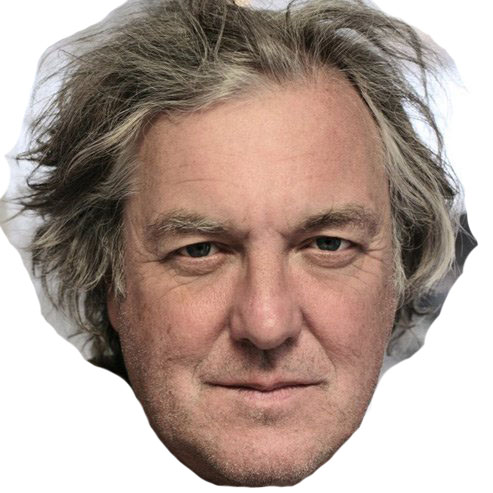
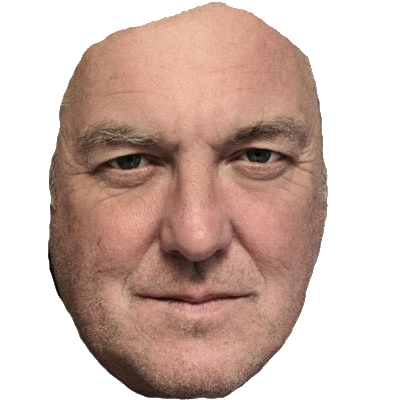
swapping faces works, I just need to sort some kinks...

diff --git a/James_May_Facer.py b/James_May_Facer.py
@@ -6,7 +6,7 @@ FaceCascade = cv2.CascadeClassifier('haarcascade_frontalface_default.xml')
 EyeCascade = cv2.CascadeClassifier('haarcascade_eye.xml')
 
 #load images
-InputImage = cv2.imread('taher.jpeg', cv2.IMREAD_COLOR)
+InputImage = cv2.imread('taher.jpg', cv2.IMREAD_COLOR)
 MayImage = cv2.imread('may.jpg', cv2.IMREAD_COLOR)
 
 InputGrey = cv2.cvtColor(InputImage, cv2.COLOR_BGR2GRAY)
@@ -16,18 +16,32 @@ MayGrey = cv2.cvtColor(MayImage, cv2.COLOR_BGR2GRAY)
 InputFaces = FaceCascade.detectMultiScale(InputGrey, 1.1, 5)
 MayFace = FaceCascade.detectMultiScale(MayGrey, 1.1, 5)
 for (x,y,w,h) in InputFaces:
-	#draw rectangles over InputFaces detected
-	cv2.rectangle(InputImage, (x,y), (x+w, y+h), (255, 0, 0), 2)
-	#cv2.rectangle(MayImage, (mx,my), (mx+mw, my+mh), (255, 0, 0), 2)
-	InputRoiGrey = InputGrey[y:y+h, x:x+w]
-	InputRoiColour = InputImage[y:y+h, x:x+w]
-	
-	#find eyes
-	eyes = EyeCascade.detectMultiScale(InputRoiGrey)
-	for (ex, ey, ew, eh) in eyes:
-		#draw rectangles over eyes
-		cv2.rectangle(InputRoiColour, (ex, ey), (ex+ew, ey+eh), (0, 255, 0), 2)
+	for (mx, my, mw, mh) in MayFace:
+		#draw rectangles over faces detected
+		#cv2.rectangle(InputImage, (x,y), (x+w, y+h), (255, 0, 0), 2)
+		#cv2.rectangle(MayImage, (mx,my), (mx+mw, my+mh), (255, 0, 0), 2)
 
+		#describe "regions of images" for the faces
+		InputRoiGrey = InputGrey[y:y+h, x:x+w]
+		InputRoiColour = InputImage[y:y+h, x:x+w]
+		MayRoiGrey = MayGrey[my:my+mh, mx:mx+mw]
+		MayRoiColour = MayImage[my:my+mh, mx:mx+mw]
+
+		#InputRoiColour[y:y+h, x:x+w] = MayRoiColour[y:y+h, x:x+w]
+		#resize and blend image
+		face = cv2.resize(MayImage, (h, w), interpolation = cv2.INTER_CUBIC)
+		face = cv2.addWeighted(InputImage[y:y+h, x:x+w], 0.1, face, 0.5, 1)
+		#swap faces
+		InputImage[y:y+h, x:x+w] = face
+		
+		#find eyes
+		# InputEyes = EyeCascade.detectMultiScale(InputRoiGrey)
+		# MayEyes = EyeCascade.detectMultiScale(MayRoiGrey)
+		# for (ex, ey, ew, eh) in InputEyes:
+		# 	for (mex, mey, mew, meh) in MayEyes:
+		# 		#draw rectangles over eyes
+		# 		cv2.rectangle(InputRoiColour, (ex, ey), (ex+ew, ey+eh), (0, 255, 0), 2)
+		# 		cv2.rectangle(MayRoiColour, (mex, mey), (mex+mew, mey+meh), (0, 255, 0), 2)
 
 #show image in a window
 cv2.imshow('James May Facer', InputImage)
